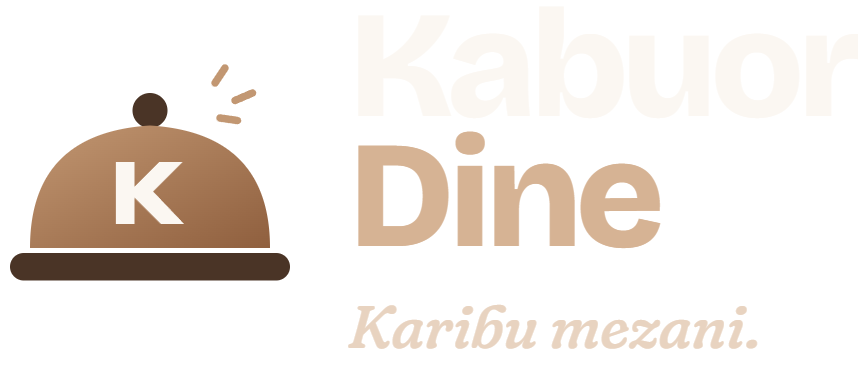
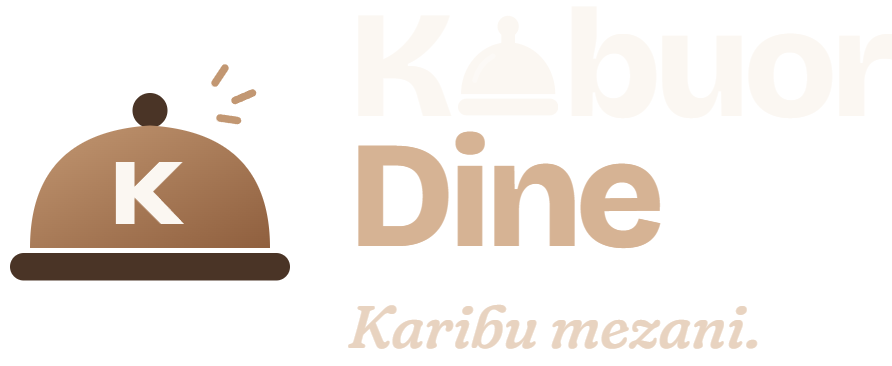
feat: the a in Kabuor is a covered plate in the Kabuor Dine wordmark
The a of "Kabuor" is drawn as a cloche: a dome as tall as the lowercase letters, its knob as tall as the K,
on a plate at the baseline. Everything else in the logo stays as it was. It's in the master artwork
(brand/logo.html), the lockup images, and the wordmark the app draws as text (DineWord in dine/Logo.tsx),
which the back office header and sidebar now use; the sidebar shows the Dine mark instead of a plain "D".

diff --git a/web/src/dine/Logo.tsx b/web/src/dine/Logo.tsx
@@ -11,6 +11,27 @@ export function DineMark({ className, dark = false }: { className?: string; dark
   return <img src={dark ? '/brand/kabuor-dine-mark-on-dark.svg' : '/brand/kabuor-dine-mark.svg'} alt="" aria-hidden className={cn('w-auto', className)} />;
 }
 
+/** The a of "Kabuor": a covered plate, the dome as tall as the lowercase letters and its knob as tall as the K. */
+export function ClocheA({ className }: { className?: string }) {
+  return (
+    <svg viewBox="0 0 66 70" aria-hidden className={cn('inline-block h-[0.7em] w-[0.66em] fill-current align-[-0.02em]', className)} style={{ margin: '0 0.025em 0 0.075em' }}>
+      <rect x="0" y="57" width="66" height="11" rx="5.5" />
+      <path d="M2 54 A31 34 0 0 1 64 54 Z" />
+      <rect x="28.5" y="12" width="9" height="10" rx="2" />
+      <circle cx="33" cy="9.5" r="7" />
+    </svg>
+  );
+}
+
+/** "Kabuor Dine" in words, with the covered-plate a. `dine` colours the second word. */
+export function DineWord({ dine, className }: { dine?: string; className?: string }) {
+  return (
+    <span className={className} aria-label="Kabuor Dine">
+      <span aria-hidden>K<ClocheA />buor <span className={dine}>Dine</span></span>
+    </span>
+  );
+}
+
 /** Mark and wordmark. size: sm for headers, md for sign-in, lg for the landing page. */
 export function DineLogo({ size = 'sm', dark = false, tagline = false, className }: { size?: 'sm' | 'md' | 'lg'; dark?: boolean; tagline?: boolean; className?: string }) {
   const s = { sm: { mark: 'h-8', word: 'text-[17px]', gap: 'gap-2' }, md: { mark: 'h-11', word: 'text-[22px]', gap: 'gap-2.5' }, lg: { mark: 'h-14', word: 'text-[28px]', gap: 'gap-3' } }[size];
@@ -18,7 +39,7 @@ export function DineLogo({ size = 'sm', dark = false, tagline = false, className
     <span className={cn('inline-flex items-center', s.gap, className)} aria-label="Kabuor Dine">
       <DineMark className={s.mark} dark={dark} />
       <span className="leading-none">
-        <span className={cn('font-brand block font-extrabold tracking-[-0.04em]', s.word, dark ? 'text-cream' : 'text-espresso')}>Kabuor <span className={dark ? 'text-[#D6B394]' : 'text-dine'}>Dine</span></span>
+        <DineWord className={cn('font-brand block font-extrabold tracking-[-0.04em]', s.word, dark ? 'text-cream' : 'text-espresso')} dine={dark ? 'text-[#D6B394]' : 'text-dine'} />
         {tagline && <span className={cn('font-tagline mt-1 block text-sm italic', dark ? 'text-[#E8D3C0]' : 'text-[#7A5038]')}>Karibu mezani.</span>}
       </span>
     </span>

diff --git a/brand/logo.html b/brand/logo.html
@@ -17,6 +17,8 @@
   .lockup img { width: 150px; }
   .word { line-height: .86; font-size: 76px; font-weight: 800; letter-spacing: -0.045em; font-variation-settings: "wdth" 85; }
   .word b { display: block; color: var(--brown); font-weight: 800; }
+  /* The a of Kabuor is a covered plate: the dome as tall as the lowercase letters, its knob as tall as the K. */
+  .cloche { display: inline-block; width: .66em; height: .7em; vertical-align: -.02em; margin: 0 .025em 0 .075em; fill: currentColor; }
   .ink .word b { color: #D6B394; }
   .tag { margin-top: 14px; font-family: 'Fraunces'; font-style: italic; font-weight: 500; font-size: 30px; letter-spacing: -0.01em; font-variation-settings: "SOFT" 100, "WONK" 1; }
   .ink .tag { color: #E8D3C0; }
@@ -30,11 +32,11 @@
 <body>
   <div class="label">Primary lockup · on white</div>
   <div class="panel white" id="light">
-    <div class="lockup"><img src="mark.svg" alt="" /><div><div class="word">Kabuor<b>Dine</b></div><div class="tag">Karibu mezani.</div></div></div>
+    <div class="lockup"><img src="mark.svg" alt="" /><div><div class="word" aria-label="Kabuor Dine">K<svg class="cloche" viewBox="0 0 66 70" aria-hidden="true"><rect x="0" y="57" width="66" height="11" rx="5.5"/><path d="M2 54 A31 34 0 0 1 64 54 Z"/><rect x="28.5" y="12" width="9" height="10" rx="2"/><circle cx="33" cy="9.5" r="7"/><path d="M11 45 A24 26 0 0 1 23 29" fill="none" stroke="#fff" stroke-opacity=".28" stroke-width="3.4" stroke-linecap="round"/></svg>buor<b>Dine</b></div><div class="tag">Karibu mezani.</div></div></div>
   </div>
   <div class="label">Primary lockup · on espresso</div>
   <div class="panel ink" id="dark">
-    <div class="lockup"><img src="mark.svg" alt="" /><div><div class="word">Kabuor<b>Dine</b></div><div class="tag">Karibu mezani.</div></div></div>
+    <div class="lockup"><img src="mark.svg" alt="" /><div><div class="word" aria-label="Kabuor Dine">K<svg class="cloche" viewBox="0 0 66 70" aria-hidden="true"><rect x="0" y="57" width="66" height="11" rx="5.5"/><path d="M2 54 A31 34 0 0 1 64 54 Z"/><rect x="28.5" y="12" width="9" height="10" rx="2"/><circle cx="33" cy="9.5" r="7"/><path d="M11 45 A24 26 0 0 1 23 29" fill="none" stroke="#fff" stroke-opacity=".28" stroke-width="3.4" stroke-linecap="round"/></svg>buor<b>Dine</b></div><div class="tag">Karibu mezani.</div></div></div>
   </div>
   <div class="label">Profile / app icon</div>
   <div class="icons">

diff --git a/web/src/components/Shell.tsx b/web/src/components/Shell.tsx
@@ -16,6 +16,7 @@ import ErrorBoundary from './ErrorBoundary';
 import TellMe from './TellMe';
 import { TrialBanner } from './Plan';
 import { Sheet } from './ui';
+import { DineMark, DineWord } from '../dine/Logo';
 
 export default function Shell({ session }: { session: Session }) {
   const { t, lang } = useLang();
@@ -126,7 +127,7 @@ export default function Shell({ session }: { session: Session }) {
       <aside className="sticky top-0 hidden h-svh flex-col border-r border-line bg-white px-3 py-4 lg:flex print:!hidden">
         <div className="min-w-0 px-2 leading-tight">
           {session.company.product === 'dine'
-            ? <span className="flex items-center gap-2"><span className="grid h-7 w-7 place-items-center rounded-lg bg-dine text-sm font-bold text-white">D</span><span className="leading-tight"><span className="block text-sm font-bold">Kabuor Dine</span><span className="block text-2xs font-semibold tracking-wider text-faint uppercase">Back office</span></span></span>
+            ? <span className="flex items-center gap-2"><DineMark className="h-7 shrink-0" /><span className="leading-tight"><DineWord className="font-brand block text-[15px] font-extrabold tracking-[-0.03em] text-espresso" dine="text-dine" /><span className="block text-2xs font-semibold tracking-wider text-faint uppercase">Back office</span></span></span>
             : <img src="/brand/kabuor-erp-logo-blue.svg" alt="Kabuor ERP" className="h-5 w-auto" />}
           <p className="mt-1.5 truncate text-xs text-muted">
             {session.user.isPlatformAdmin ? 'Platform Admin Console' : session.company.name}

diff --git a/web/src/dine/DineShell.tsx b/web/src/dine/DineShell.tsx
@@ -9,7 +9,7 @@ import { cn } from '../lib/format';
 import { TrialBanner } from '../components/Plan';
 import ErrorBoundary from '../components/ErrorBoundary';
 import { Sheet } from '../components/ui';
-import { DineMark } from './Logo';
+import { DineMark, DineWord } from './Logo';
 import Floor from './Floor';
 import Kitchen from './Kitchen';
 import MenuSetup from './MenuSetup';
@@ -67,7 +67,7 @@ function DineShell() {
           <NavLink to="/dine" className="flex min-w-0 shrink-0 items-center gap-2">
             <DineMark className="h-8 shrink-0" dark={kitchen} />
             <span className="min-w-0 leading-tight">
-              <span className="font-brand block text-[15px] font-extrabold tracking-[-0.03em]">Kabuor <span className={kitchen ? 'text-[#D6B394]' : 'text-dine'}>Dine</span></span>
+              <DineWord className="font-brand block text-[15px] font-extrabold tracking-[-0.03em]" dine={kitchen ? 'text-[#D6B394]' : 'text-dine'} />
               <span className={cn('block max-w-[200px] truncate text-[11px]', kitchen ? 'text-white/60' : 'text-muted')}>{s.company.name}</span>
             </span>
           </NavLink>
